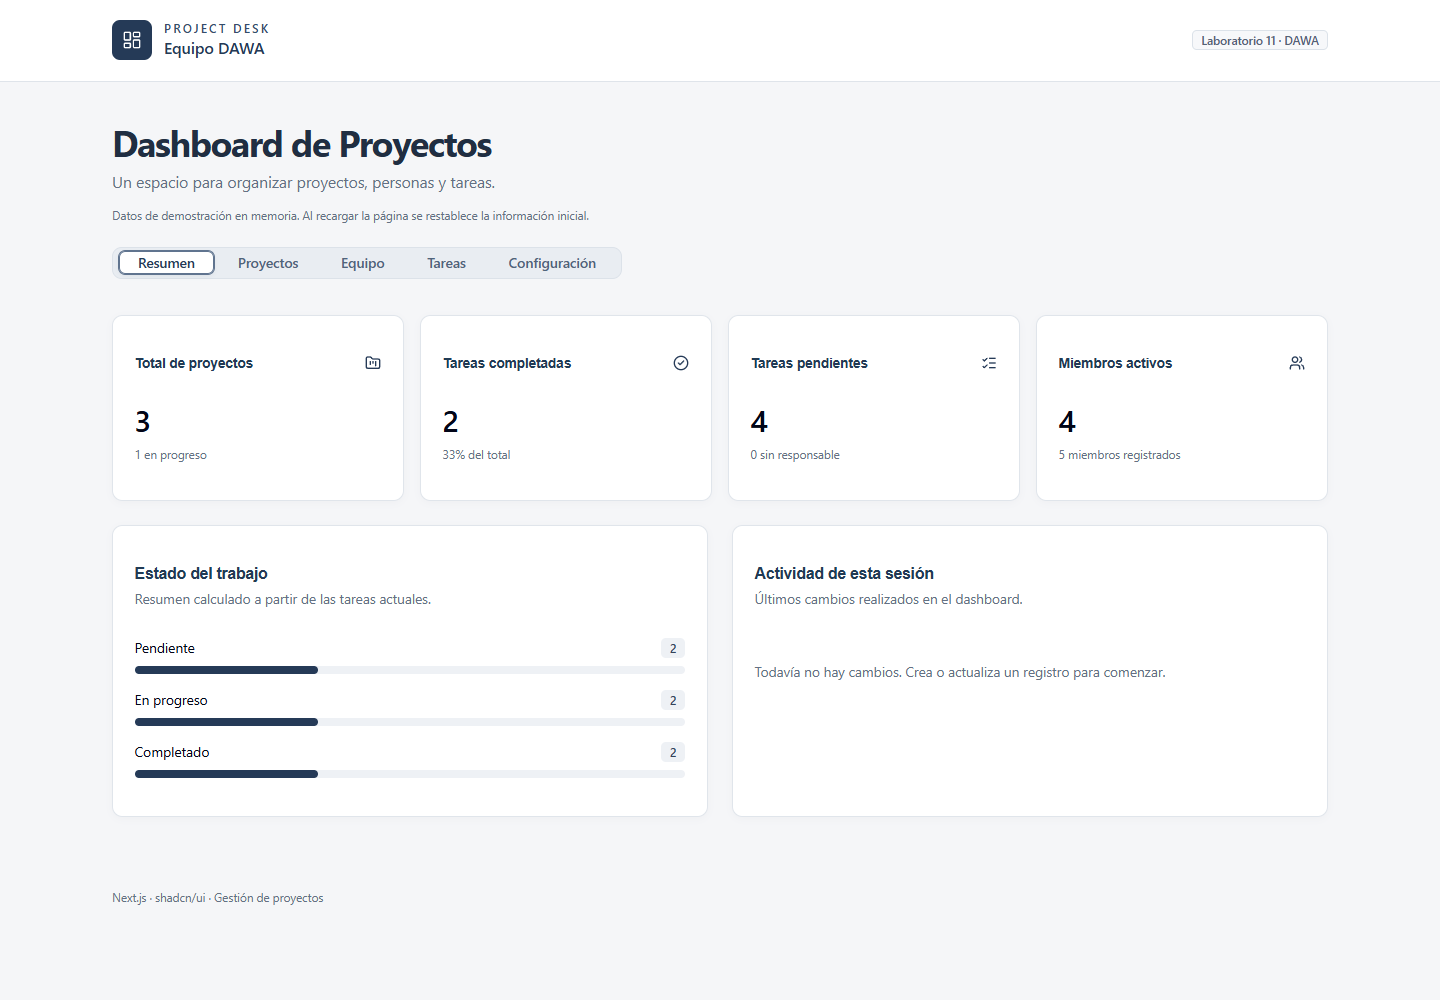
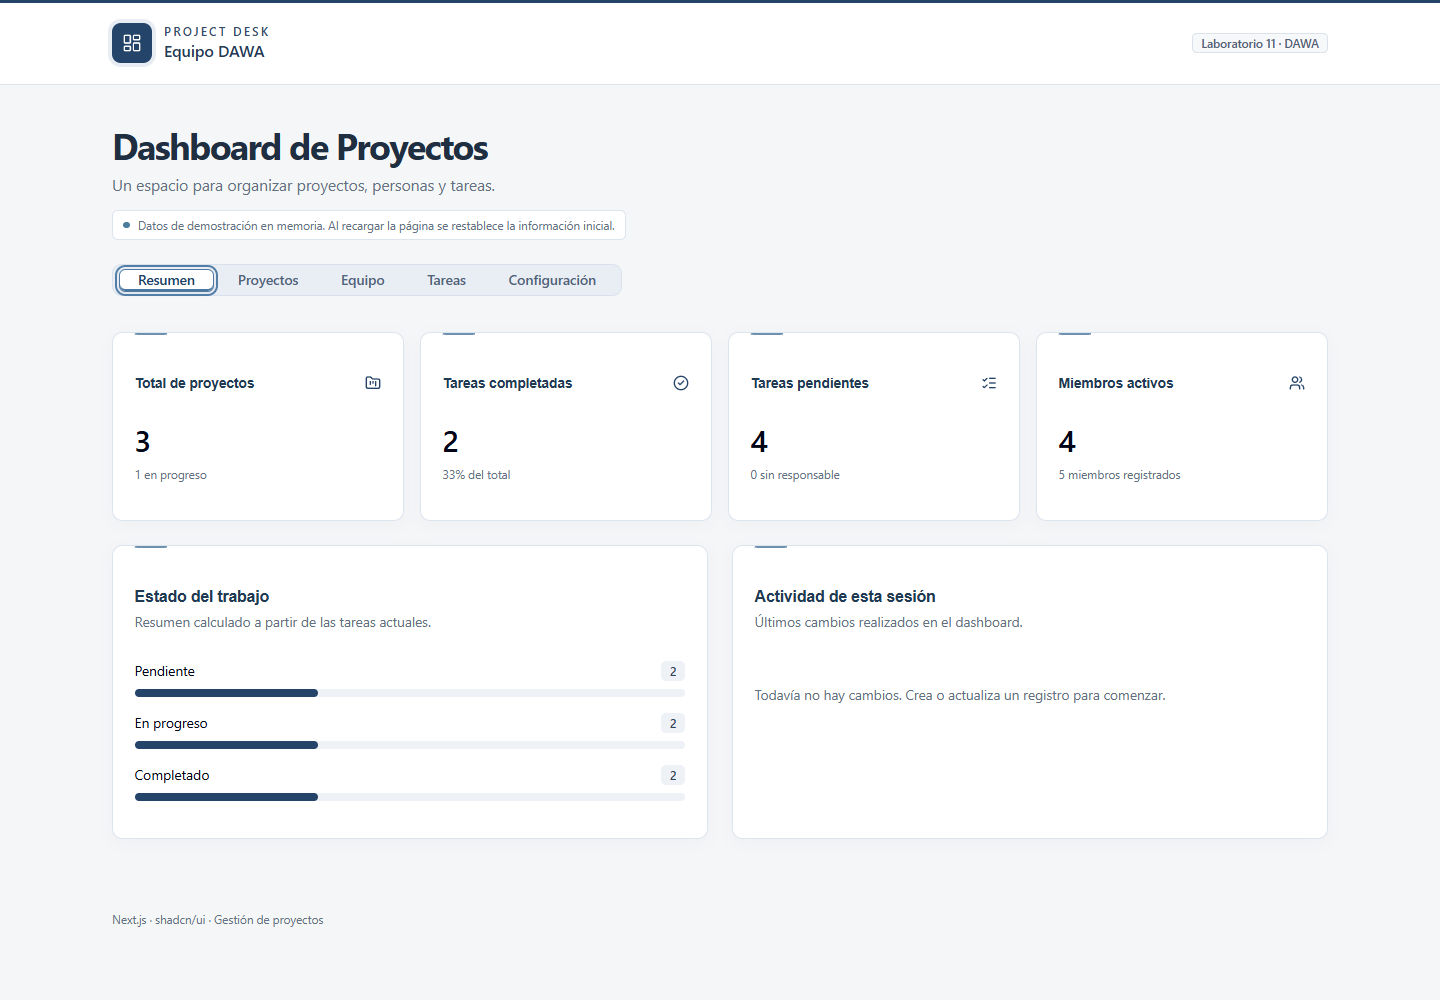
style: add restrained technology-inspired details

diff --git a/next-shadcn-ui/src/app/globals.css b/next-shadcn-ui/src/app/globals.css
@@ -239,3 +239,23 @@ main h1, main h2 { color: #202e42; }
 [data-slot="tabs-trigger"][data-state="active"] { color: #253a57; }
 [data-slot="card"] { border-color: #e0e5eb; box-shadow: 0 2px 8px #1c2d4208; }
 [data-slot="table-header"] { background: #f1f3f6; }
+
+/* Detalles tecnológicos de la interfaz */
+:root { --primary: #254469; --ring: #4f78a6; }
+header.border-b.bg-card { border-top: 3px solid #254469; }
+header.border-b.bg-card > div > div:first-child > div:first-child { border-radius: 0.55rem; box-shadow: 0 0 0 4px #e8edf4; }
+main h1 { letter-spacing: -0.045em; }
+main > div:first-child > p:last-child { display: inline-flex; align-items: center; gap: 0.5rem; padding: 0.4rem 0.65rem; border: 1px solid #dce4ed; border-radius: 0.35rem; background: #fff; }
+main > div:first-child > p:last-child::before { content: ''; width: 0.4rem; height: 0.4rem; border-radius: 50%; background: #4b7c9c; flex: none; }
+[data-slot="tabs-list"] { background: #e9eef4; border-color: #d9e2ec; }
+[data-slot="tabs-trigger"][data-state="active"] { color: #1d4066; box-shadow: inset 0 -2px #4c779c, 0 2px 5px #1d30400c; }
+[data-slot="card"] { position: relative; border-color: #dce4ed; box-shadow: 0 4px 16px #233e5d09; }
+[data-slot="card"]::before { content: ''; position: absolute; inset: 0 auto auto 1.35rem; width: 2rem; height: 2px; background: #6e91b0; border-radius: 0 0 2px 2px; }
+[data-slot="card-header"] { padding-top: 1.5rem; }
+[data-slot="card-title"] { letter-spacing: -0.015em; }
+[data-slot="table-header"] { background: #edf2f7; }
+[data-slot="table-head"] { text-transform: uppercase; font-size: 0.68rem; letter-spacing: 0.07em; }
+[data-slot="input"], [data-slot="select-trigger"] { border-color: #d7e1eb; }
+[data-slot="button"] { transition: background-color 160ms ease, border-color 160ms ease, box-shadow 160ms ease; }
+[data-slot="button"]:focus-visible, [data-slot="tabs-trigger"]:focus-visible { outline: 2px solid #537ea7; outline-offset: 2px; }
+@media (prefers-reduced-motion: reduce) { [data-slot="button"] { transition: none; } }
